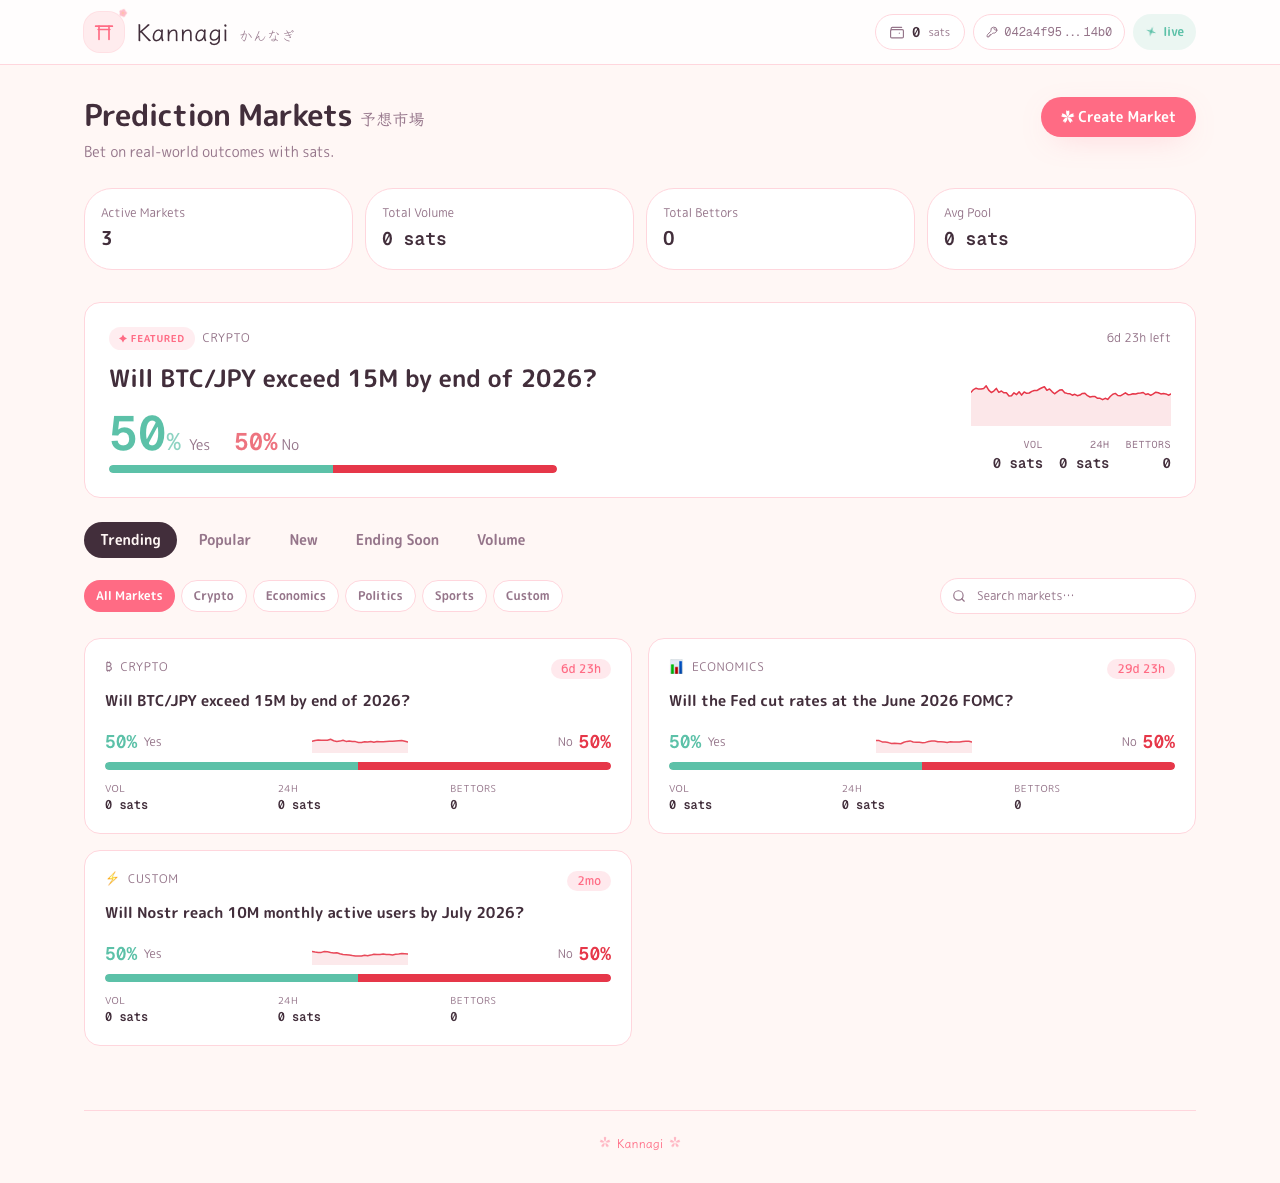
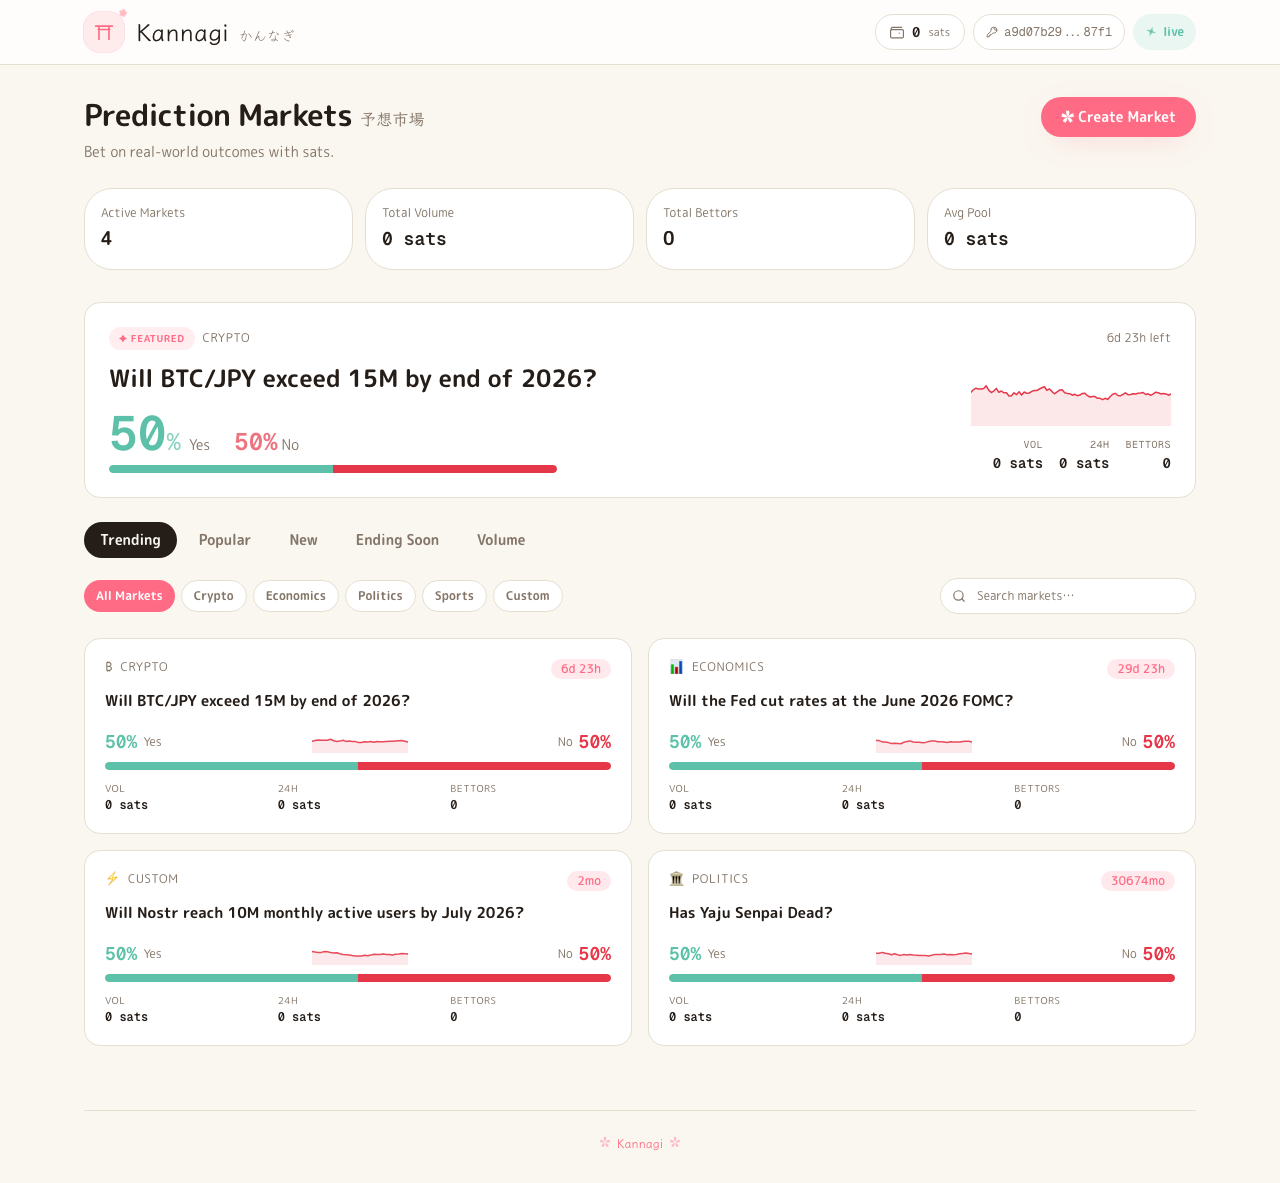
fix(prediction-market): calm the background — sakura stays an accent
The pink-flooded canvas (--background #FFF8F4 plus three loud sakura/Nagi/
amethyst radial gradients) was tiring on the eyes during longer sessions.
Return the base to the original Kannagi shoji-paper cream (#FBF6EC) and
strip the pink tint from --muted and --border. The radial wash drops to
two faint corner accents (rgba 0.05–0.06) so the surface stays warm
without bleeding pink into every region.

Sakura coral now lives only where it should — CTAs, the brand wordmark,
the "Featured" pill, the active category chip, hover glows.

diff --git a/example/prediction-market/ui/globals.css b/example/prediction-market/ui/globals.css
@@ -60,10 +60,12 @@
       system-ui,
       sans-serif;
     font-feature-settings: "palt" 1;
+    /* Calm shoji-paper cream — sakura pink stays an accent (CTAs, badges,
+     * hover glows) and never floods the canvas. A very light radial wash
+     * at the corners keeps the surface warm without pinking it up. */
     background-image:
-      radial-gradient(circle at 12% 18%, rgba(255, 183, 197, 0.18), transparent 38%),
-      radial-gradient(circle at 88% 8%, rgba(168, 197, 232, 0.16), transparent 42%),
-      radial-gradient(circle at 70% 92%, rgba(201, 181, 220, 0.14), transparent 45%);
+      radial-gradient(circle at 100% 0%, rgba(255, 183, 197, 0.06), transparent 55%),
+      radial-gradient(circle at 0% 100%, rgba(168, 197, 232, 0.05), transparent 55%);
     background-attachment: fixed;
   }
   /* Tabular numerals for any data the user compares vertically */
@@ -80,23 +82,25 @@
    * states only. Tokens documented in DESIGN.md Section 2.
    */
 
-  /* Neutrals — sakura-mochi paper progression */
-  --background: 12 100% 98%;       /* #FFF8F4 — soft peach cream */
-  --foreground: 320 18% 22%;       /* #4A3142 — warm plum-dark */
+  /* Neutrals — calm shoji-paper cream (no pink tint).
+   * Sakura coral lives only on accents (--primary, --sakura) so the canvas
+   * stays restful for long sessions. */
+  --background: 42 50% 96%;        /* #FBF6EC — shoji washi paper */
+  --foreground: 25 22% 12%;        /* #251F18 — sumi ink, warm but neutral */
   --card: 0 0% 100%;
-  --card-foreground: 320 18% 22%;
+  --card-foreground: 25 22% 12%;
   --popover: 0 0% 100%;
-  --popover-foreground: 320 18% 22%;
+  --popover-foreground: 25 22% 12%;
 
   /* Brand — Sakura coral (桜珊瑚) — softer, kawaii vermillion */
   --primary: 350 100% 71%;         /* #FF6B85 */
   --primary-foreground: 0 0% 100%;
 
-  --secondary: 350 100% 92%;       /* #FFD9DF — soft rose */
-  --secondary-foreground: 320 14% 36%;
+  --secondary: 42 28% 86%;         /* #E5DCC4 — parchment */
+  --secondary-foreground: 30 18% 31%;
 
-  --muted: 350 100% 96%;           /* #FFEEF1 — pink tint */
-  --muted-foreground: 320 13% 52%; /* #9B7E92 */
+  --muted: 42 38% 92%;             /* #F1ECDF — light cream */
+  --muted-foreground: 30 12% 46%;  /* #837A6F */
 
   /* Accent — Nagi (ナギ) blue — her signature hair color */
   --accent: 211 60% 82%;           /* #A8C5E8 */
@@ -105,8 +109,8 @@
   --destructive: 354 78% 56%;      /* #E63946 — ceremonial vermillion */
   --destructive-foreground: 0 0% 100%;
 
-  --border: 350 100% 92%;          /* #FFD9DF */
-  --input: 350 100% 96%;
+  --border: 42 28% 86%;            /* #E5DCC4 — soft parchment */
+  --input: 42 38% 92%;
   --ring: 350 100% 71%;            /* sakura coral focus */
 
   /* Prediction outcomes — pastel sakaki / vermillion */
